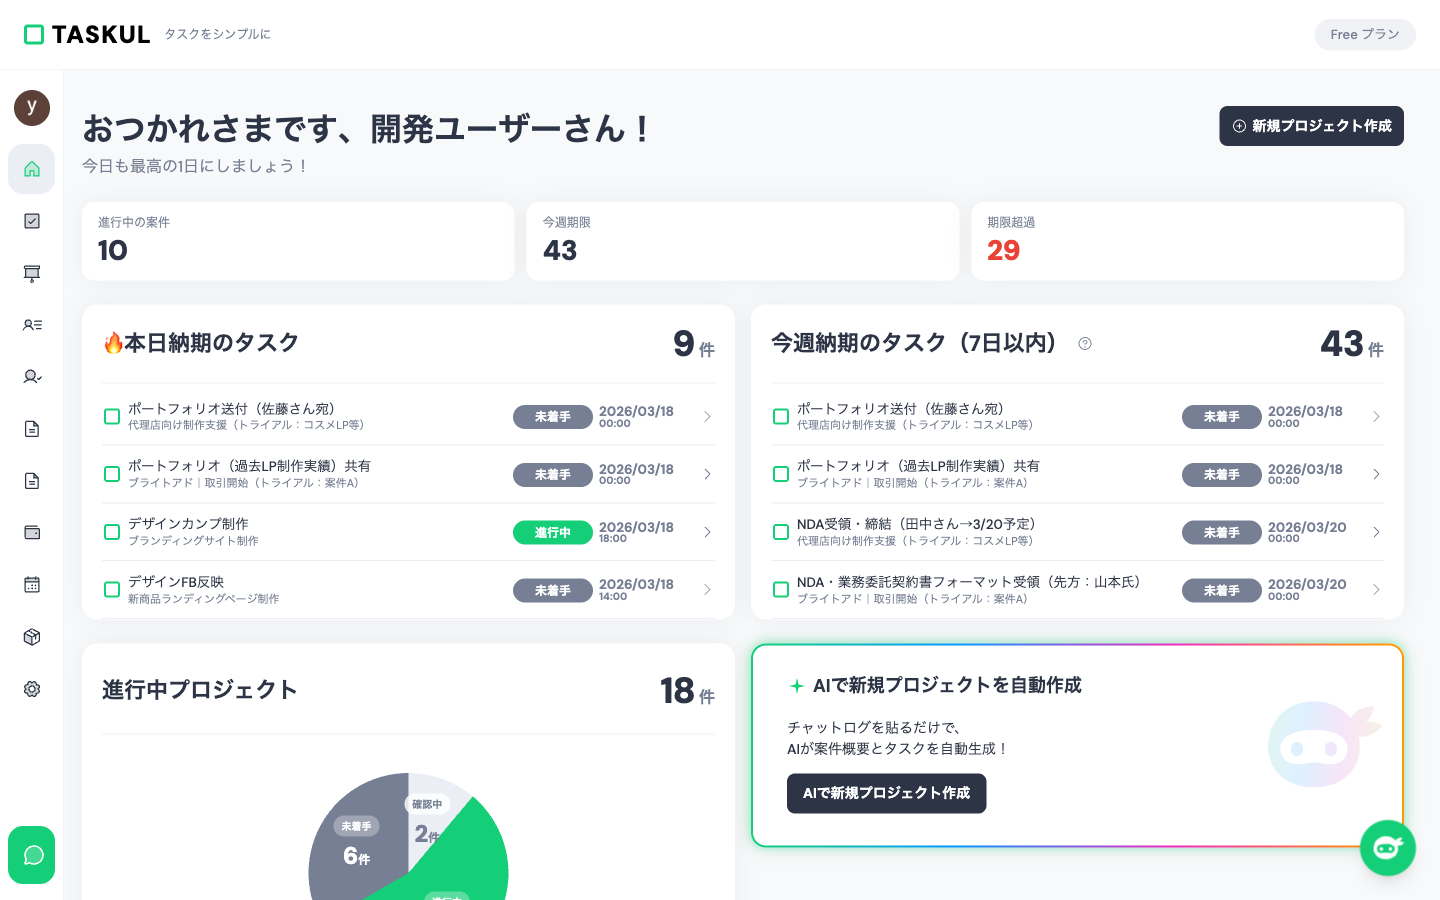
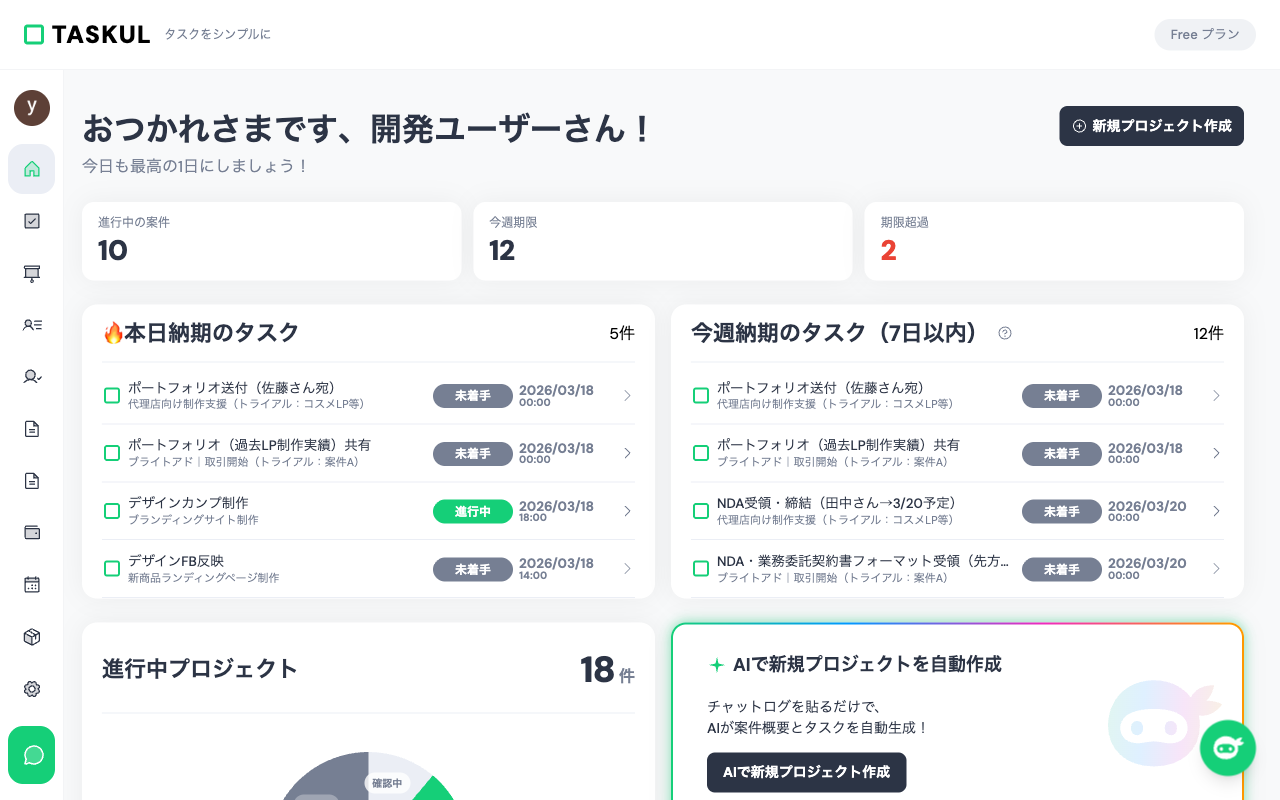
feat: Slack連携セクション刷新 + 見積書・請求書・ダッシュボードスクショ更新
- Slackモック画像を作成し、3D tiltで表示するダークセクションに刷新
- Slackセクションを「Slack Integration（コピペ訴求）」と「AI Structuring（自動構造化訴求）」の2セクションに分割
- 見積書スクショ: 実データ8項目（¥2,046,000税込）で撮り直し
- 請求書スクショ: 請求管理一覧（5社分）で撮り直し
- ダッシュボードスクショ: 期限超過の数字を現実的な値に調整

diff --git a/index.html b/index.html
@@ -292,6 +292,19 @@ a.nav-cta{font-size:.85rem;font-weight:700;color:#fff !important;background:#15c
 .line-task-item strong{font-weight:700}
 .line-badge{display:inline-flex;font-size:.65rem;font-weight:700;color:#06c755;background:rgba(6,199,85,.08);padding:3px 10px;border-radius:100px;margin-top:8px}
 
+/* ===== SLACK TILT VISUAL ===== */
+.slack-tilt-wrap{perspective:1200px;position:relative}
+.slack-tilt{border-radius:16px;overflow:hidden;box-shadow:0 30px 80px -20px rgba(0,0,0,.3),0 0 0 1px rgba(255,255,255,.06);transform:rotateY(-8deg) rotateX(4deg);transition:transform .6s cubic-bezier(.16,1,.3,1),box-shadow .6s}
+.slack-tilt:hover{transform:rotateY(-2deg) rotateX(1deg);box-shadow:0 40px 100px -20px rgba(0,0,0,.35)}
+.slack-tilt img{width:100%;display:block}
+.slack-flow{display:flex;align-items:center;gap:48px;margin-top:48px}
+.slack-flow-step{flex:1;text-align:center}
+.slack-flow-icon{width:56px;height:56px;border-radius:16px;display:flex;align-items:center;justify-content:center;margin:0 auto 12px;font-size:1.5rem}
+.slack-flow-label{font-size:.82rem;font-weight:700;color:rgba(0,0,0,.7)}
+.slack-flow-arrow{flex-shrink:0;color:rgba(0,0,0,.15);font-size:1.4rem}
+.section-dark .slack-flow-label{color:rgba(255,255,255,.7)}
+.section-dark .slack-flow-arrow{color:rgba(255,255,255,.15)}
+
 /* ===== PARTNER SHOWCASE (2-block) ===== */
 .partner-showcase{position:relative;overflow:hidden}
 .partner-block{display:grid;grid-template-columns:1.2fr 1fr;gap:60px;align-items:center}
@@ -645,23 +658,47 @@ a.nav-cta{font-size:.85rem;font-weight:700;color:#fff !important;background:#15c
   </div>
 </section>
 
-<!-- Slack Integration -->
-<section class="section section-gray">
+<!-- Slack Integration: Copy & Paste -->
+<section class="section section-dark">
   <div class="section-inner">
     <div class="split anim">
       <div class="split-text">
-        <p class="headline-eyebrow">Slack</p>
-        <h2 class="headline-large">Slackの会話から、<br>案件が生まれる。</h2>
-        <p class="headline-desc" style="margin:0">クライアントとのSlackのやり取りをTASKULに貼り付けるだけ。AIが依頼内容を読み解き、プロジェクト・タスク・見積書を自動構造化。「あのSlackどこだっけ？」がなくなります。</p>
+        <p class="headline-eyebrow" style="color:rgba(255,255,255,.4)">Slack Integration</p>
+        <h2 class="headline-large" style="color:#fff">Slackの会話を、<br>コピペするだけ。</h2>
+        <p class="headline-desc" style="margin:0;color:rgba(255,255,255,.5)">クライアントや社内のSlackのやり取りを、TASKULにそのまま貼り付ける。たったそれだけで、案件が動き出します。</p>
+        <div class="feat-points" style="margin-top:28px">
+          <div class="feat-point"><span class="feat-point-icon" style="background:rgba(96,165,250,.12)"><svg viewBox="0 0 24 24" style="stroke:#4ade80"><polyline points="20 6 9 17 4 12"/></svg></span><span style="color:rgba(255,255,255,.7)">Slackの長文チャットをそのまま貼るだけ</span></div>
+          <div class="feat-point"><span class="feat-point-icon" style="background:rgba(96,165,250,.12)"><svg viewBox="0 0 24 24" style="stroke:#4ade80"><polyline points="20 6 9 17 4 12"/></svg></span><span style="color:rgba(255,255,255,.7)">複数チャンネルの情報もまとめてOK</span></div>
+          <div class="feat-point"><span class="feat-point-icon" style="background:rgba(96,165,250,.12)"><svg viewBox="0 0 24 24" style="stroke:#4ade80"><polyline points="20 6 9 17 4 12"/></svg></span><span style="color:rgba(255,255,255,.7)">「あのSlackどこだっけ？」がゼロに</span></div>
+        </div>
       </div>
-      <div class="split-visual">
-        <div style="background:#1a1d21;border-radius:16px;padding:32px;text-align:center;color:rgba(255,255,255,.5);font-size:14px;min-height:240px;display:flex;align-items:center;justify-content:center">
-          <div>
-            <svg width="60" height="60" viewBox="0 0 24 24" fill="none" style="margin:0 auto 16px"><path d="M5.042 15.165a2.528 2.528 0 0 1-2.52 2.523A2.528 2.528 0 0 1 0 15.165a2.527 2.527 0 0 1 2.522-2.52h2.52v2.52zM6.313 15.165a2.527 2.527 0 0 1 2.521-2.52 2.527 2.527 0 0 1 2.521 2.52v6.313A2.528 2.528 0 0 1 8.834 24a2.528 2.528 0 0 1-2.521-2.522v-6.313zM8.834 5.042a2.528 2.528 0 0 1-2.521-2.52A2.528 2.528 0 0 1 8.834 0a2.528 2.528 0 0 1 2.521 2.522v2.52H8.834zM8.834 6.313a2.528 2.528 0 0 1 2.521 2.521 2.528 2.528 0 0 1-2.521 2.521H2.522A2.528 2.528 0 0 1 0 8.834a2.528 2.528 0 0 1 2.522-2.521h6.312zM18.956 8.834a2.528 2.528 0 0 1 2.522-2.521A2.528 2.528 0 0 1 24 8.834a2.528 2.528 0 0 1-2.522 2.521h-2.522V8.834zM17.688 8.834a2.528 2.528 0 0 1-2.523 2.521 2.527 2.527 0 0 1-2.52-2.521V2.522A2.527 2.527 0 0 1 15.165 0a2.528 2.528 0 0 1 2.523 2.522v6.312zM15.165 18.956a2.528 2.528 0 0 1 2.523 2.522A2.528 2.528 0 0 1 15.165 24a2.527 2.527 0 0 1-2.52-2.522v-2.522h2.52zM15.165 17.688a2.527 2.527 0 0 1-2.52-2.523 2.526 2.526 0 0 1 2.52-2.52h6.313A2.527 2.527 0 0 1 24 15.165a2.528 2.528 0 0 1-2.522 2.523h-6.313z" fill="#E01E5A"/></svg>
-            <p style="font-size:16px;font-weight:700;color:rgba(255,255,255,.8);margin-bottom:8px">Slack → TASKUL</p>
-            <p>やり取りを貼るだけで<br>案件が自動構造化</p>
+      <div class="split-visual anim anim-d2">
+        <div class="slack-tilt-wrap">
+          <div class="slack-tilt">
+            <img src="/images/slack-mock.png" alt="Slackの会話画面" loading="lazy">
           </div>
         </div>
+      </div>
+    </div>
+  </div>
+</section>
+
+<!-- Slack → AI Structuring -->
+<section class="section section-gray">
+  <div class="section-inner">
+    <div class="split split-reverse anim">
+      <div class="split-text">
+        <p class="headline-eyebrow">AI Structuring</p>
+        <h2 class="headline-large">AIが会話を読み解き、<br>案件を自動構造化。</h2>
+        <p class="headline-desc" style="margin:0">貼り付けたSlackの会話から、AIがプロジェクト名・タスク・納期・要件・注意点を自動抽出。見積書の項目まで提案します。</p>
+        <div class="feat-points" style="margin-top:28px">
+          <div class="feat-point"><span class="feat-point-icon"><svg viewBox="0 0 24 24"><polyline points="20 6 9 17 4 12"/></svg></span>会話からタスク・要件・注意点を自動分類</div>
+          <div class="feat-point"><span class="feat-point-icon"><svg viewBox="0 0 24 24"><polyline points="20 6 9 17 4 12"/></svg></span>納期・予算・担当者も自動検出</div>
+          <div class="feat-point"><span class="feat-point-icon"><svg viewBox="0 0 24 24"><polyline points="20 6 9 17 4 12"/></svg></span>見積書の項目・工数までAIが提案</div>
+        </div>
+      </div>
+      <div class="split-visual anim anim-d2">
+        <div class="macbook-frame"><div class="macbook-screen"><img src="/images/real-project-detail.png" alt="AI構造化されたプロジェクト" loading="lazy"></div><div class="macbook-base"></div></div>
       </div>
     </div>
   </div>
